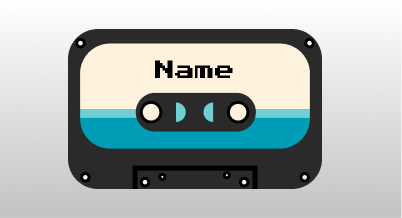
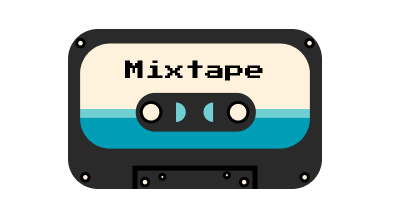
Updated mixtape cards on homepage

diff --git a/src/developing_the_interactive_web_project_1_group_7/templates/mixtape_template.html b/src/developing_the_interactive_web_project_1_group_7/templates/mixtape_template.html
@@ -4,11 +4,13 @@
         for this benchmark, I just added this as a placeholder -->
         <img src="/static/images/cover.png" alt="mixtape cover" width="200">
     
-    <h3>Mixtape Title</h3>
-    <p>by Jane Doe • 22 Tracks • 10 saved</p>
-    <p>
-        Mixtape description lorem ipsum dolor sit amet,
-        it can be quite long and we can clip it if
-        it's too long.
-    </p>
+    <div class="mixtape-description">
+        <h3>Mixtape Title</h3>
+        <p>by Jane Doe • 22 Tracks • 10 saved</p>
+        <p>
+            Mixtape description lorem ipsum dolor sit amet,
+            it can be quite long and we can clip it if
+            it's too long.
+        </p>
+    </div>
 </div>

diff --git a/src/developing_the_interactive_web_project_1_group_7/static/mixtape_template.css b/src/developing_the_interactive_web_project_1_group_7/static/mixtape_template.css
@@ -1,15 +1,20 @@
 .mixtape-card {
-    background-color: rgb(255, 255, 255);
-    color: rgb(0, 0, 0);
+    background-color: rgb(0, 0, 0);
+    color: rgb(255, 255, 255);
     border-radius: 20px;
-    padding: 15px;
     margin: 20px;
+}
+
+.mixtape-description {
+    padding: 1em;
+    padding-top: 0em;
 }
 
 .mixtape-card img {
     width: 100%;
     height: 200px;
     object-fit: cover;
+    border-radius: 20px 20px 0px 0px;
 }
 
 .mixtapes {
